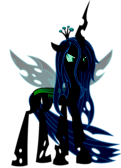
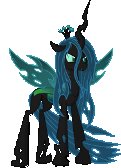
Add option for black on white or reverse, fix some dark images

diff --git a/src/pony.c b/src/pony.c
@@ -1,5 +1,10 @@
 #include <pebble.h>
 
+// Function prototypes
+static void init(void);
+static void deinit(void);
+static void update_time(bool new_image);
+
 static int i;
 static Window *window;
 static TextLayer* s_time_layer;
@@ -84,6 +89,29 @@ static uint32_t images[] = {RESOURCE_ID_PONY01,
                             RESOURCE_ID_PONY69,
                             RESOURCE_ID_PONY70};
 
+static void app_message_inbox_received(DictionaryIterator *iterator, void *context) {
+  Tuple *t = dict_find(iterator, 0);
+  bool black_on_white = t->value->int32;
+  status_t s = persist_write_bool(0, black_on_white);
+  if (black_on_white) {
+    foreground_color = GColorBlack;
+    background_color = GColorWhite;
+  } else {
+    foreground_color = GColorWhite;
+    background_color = GColorBlack;
+  }
+
+  text_layer_set_text_color(s_time_layer, foreground_color);
+  for (i = 0; i < 4; i++) {
+    text_layer_set_text_color(s_time_shadow_layers[i], background_color);
+  }
+  text_layer_set_text_color(s_date_layer, foreground_color);
+  for (i = 0; i < 4; i++) {
+    text_layer_set_text_color(s_date_shadow_layers[i], background_color);
+  }
+  update_time(false);
+}
+
 static void draw_background(Layer *layer, GContext *ctx) {
   GRect bounds = layer_get_bounds(layer);
 
@@ -109,7 +137,7 @@ static void draw_battery(Layer *layer, GContext *ctx) {
   graphics_fill_rect(ctx, GRect(2,2,charge_state.charge_percent/10,3), 0, GCornerNone);
 }
 
-static void update_time() {
+static void update_time(bool new_image) {
   time_t temp = time(NULL); 
   struct tm *tick_time = localtime(&temp);
 
@@ -135,14 +163,16 @@ static void update_time() {
     text_layer_set_text(s_date_shadow_layers[i], date_text);
   }
 
-  gbitmap_destroy(s_bitmap);
-  int image = rand() % (sizeof(images) / sizeof(images[0]));
-  s_bitmap = gbitmap_create_with_resource(images[image]);
-  bitmap_layer_set_bitmap(s_bitmap_layer, s_bitmap);
+  if (new_image) {
+    gbitmap_destroy(s_bitmap);
+    int image = rand() % (sizeof(images) / sizeof(images[0]));
+    s_bitmap = gbitmap_create_with_resource(images[image]);
+    bitmap_layer_set_bitmap(s_bitmap_layer, s_bitmap);
+  }
 }
 
 static void tick_handler(struct tm *tick_time, TimeUnits units_changed) {
-  update_time();
+  update_time(true);
 }
 
 static void window_load(Window *window) {
@@ -155,7 +185,8 @@ static void window_load(Window *window) {
   layer_add_child(window_layer, background_layer);
 
   // Create the layer used for the images
-  s_bitmap = gbitmap_create_with_resource(images[0]);
+  int image = rand() % (sizeof(images) / sizeof(images[0]));
+  s_bitmap = gbitmap_create_with_resource(images[image]);
   s_bitmap_layer = bitmap_layer_create(bounds);
   bitmap_layer_set_bitmap(s_bitmap_layer, s_bitmap);
   bitmap_layer_set_compositing_mode(s_bitmap_layer, GCompOpSet);
@@ -214,8 +245,8 @@ static void window_load(Window *window) {
   layer_set_update_proc(battery_layer, draw_battery);
   layer_add_child(window_layer, battery_layer);
 
-  // Update everything with the current date/time and a new image
-  update_time();
+  // Update everything with the current date/time
+  update_time(false);
 }
 
 static void window_unload(Window *window) {
@@ -233,8 +264,19 @@ static void window_unload(Window *window) {
 }
 
 static void init(void) {
-  foreground_color = GColorWhite;
-  background_color = GColorBlack;
+  bool black_on_white = true;
+  if (persist_exists(0)) {
+    black_on_white = persist_read_bool(0);
+  } else {
+    persist_write_bool(0, black_on_white);
+  }
+  if (black_on_white) {
+    foreground_color = GColorBlack;
+    background_color = GColorWhite;
+  } else {
+    foreground_color = GColorWhite;
+    background_color = GColorBlack;
+  }
 
   window = window_create();
   window_set_window_handlers(window, (WindowHandlers) {
@@ -245,9 +287,15 @@ static void init(void) {
   window_stack_push(window, animated);
 
   tick_timer_service_subscribe(MINUTE_UNIT, tick_handler);
+
+  app_message_register_inbox_received(app_message_inbox_received);
+  app_message_open(30, 0);
 }
 
 static void deinit(void) {
+  tick_timer_service_unsubscribe();
+  app_message_deregister_callbacks();
+  window_stack_pop_all(true);
   window_destroy(window);
 }
 
